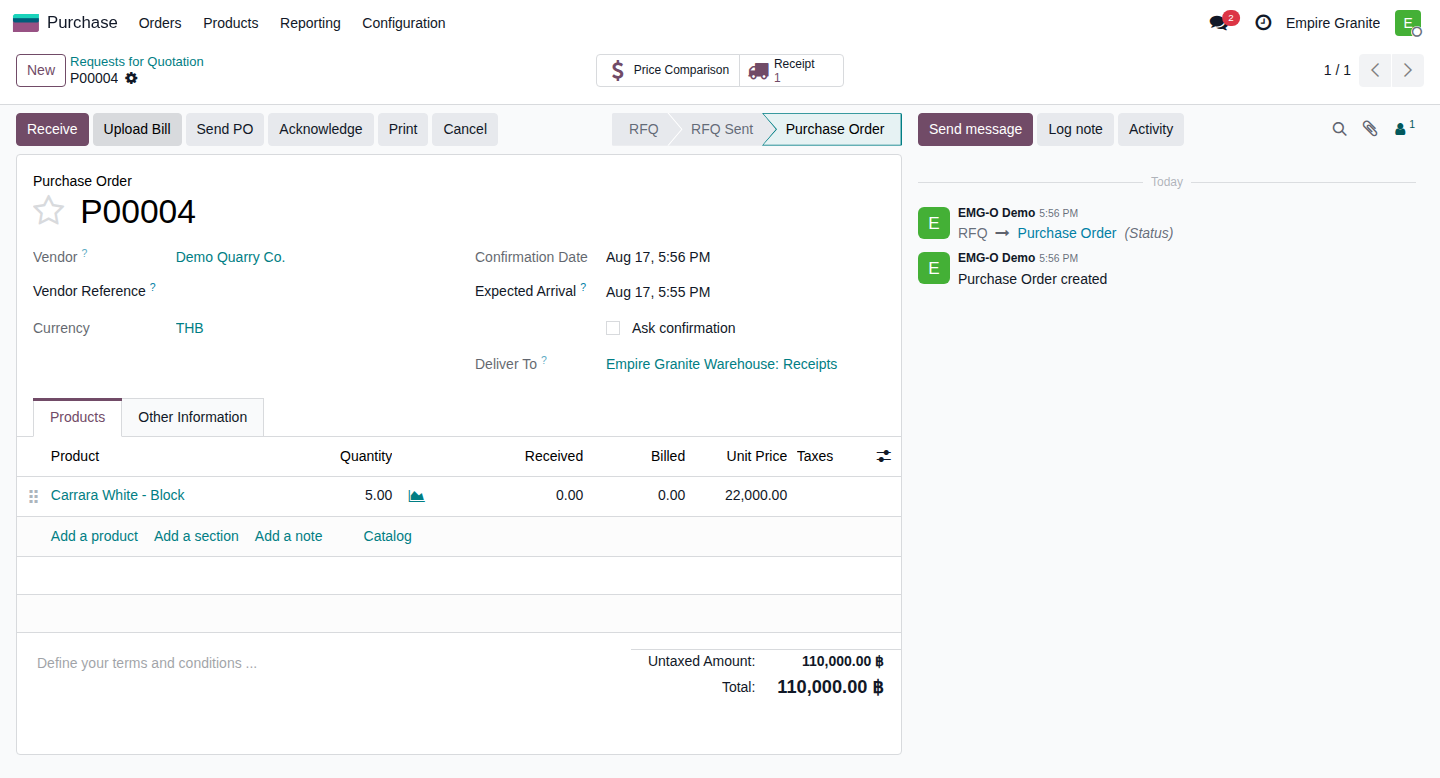
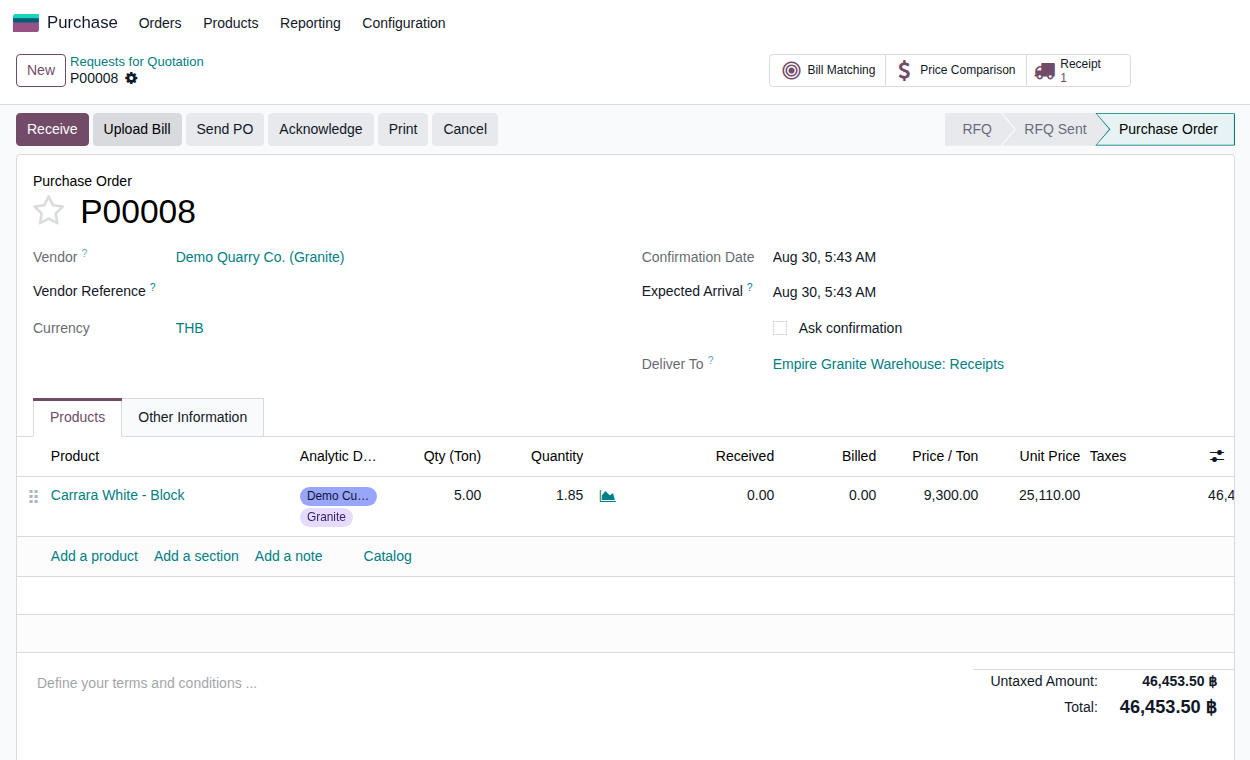
Add Archived page + Pin feature to library; fix stale docs post-ADR-040
- New archived.html: same category taxonomy as library.html, each entry
  shows version/date/reason it's outdated + link to the superseding doc.
  Nav link added to all pages.
- Version+date badge convention (.card-version) established for future
  doc creates/updates (not applied retroactively).
- Pin support: .pinned card badge on library.html + "เอกสารปักหมุด"
  section on index.html (editorial marker, no backend). Pinned D5
  (stone-cost-ton-purchase-calc.html) per request.
- Audit found 3 docs stale vs. the built ADR-040/041 (Ton-based PO
  purchasing/stock): moved block-uom-ton-cbm-proposal.html (superseded
  pending proposal) to archived.html; fixed qa/test-cases-day-in-life.html
  TC-D1-03 (source data + regenerated HTML/xlsx) and e2e-supply-intake.html
  (re-shot 3 screenshots live on mbx-ee-dev via Playwright — PO P00008,
  Block BLK-26-0006 — text/captions updated to match).

diff --git a/presentations/e2e-supply-intake.html b/presentations/e2e-supply-intake.html
@@ -143,12 +143,12 @@
       <div class="col-left">
         <img class="flow-thumb" src="assets/supply-flow-step1.png">
         <ul class="plain-list" style="margin-top:14px;">
-          <li><b>ข้อมูลนำเข้า:</b> ความต้องการซื้อหิน — ระบุวัสดุและปริมาณที่ต้องการ (ลูกบาศก์เมตร)</li>
-          <li><b>กระบวนการ:</b> เปิดใบสั่งซื้อกับซัพพลายเออร์ ระบุวัสดุและจำนวน แล้วยืนยันใบสั่งซื้อ</li>
+          <li><b>ข้อมูลนำเข้า:</b> ความต้องการซื้อหิน — ระบุวัสดุและปริมาณที่ต้องการ (<b>ตัน — ตามน้ำหนักจริงหน้างาน</b>)</li>
+          <li><b>กระบวนการ:</b> เปิดใบสั่งซื้อกับซัพพลายเออร์ ระบุวัสดุและจำนวนเป็นตัน ระบบแปลงเป็นคิว (CBM) ให้อัตโนมัติตาม Density ของวัสดุ แล้วยืนยันใบสั่งซื้อ</li>
         </ul>
       </div>
       <div class="col-right">
-        <div class="shot-wrap"><img class="shot" src="assets/supply-shot-po-confirmed.png"><div class="shot-cap">ผลลัพธ์: ใบสั่งซื้อ P00004 — Demo Quarry Co., Carrara White ปริมาณ 5.00 ลบ.ม. ยืนยันเรียบร้อย พร้อมส่งต่อฝ่ายคลัง</div></div>
+        <div class="shot-wrap"><img class="shot" src="assets/supply-shot-po-confirmed.png"><div class="shot-cap">ผลลัพธ์: ใบสั่งซื้อ P00008 — Demo Quarry Co., Carrara White กรอก 5.00 ตัน ระบบแปลงเป็น 1.85 ลบ.ม. ให้อัตโนมัติ ยืนยันเรียบร้อย พร้อมส่งต่อฝ่ายคลัง</div></div>
       </div>
     </div>
   </section>
@@ -162,11 +162,11 @@
         <img class="flow-thumb" src="assets/supply-flow-step3.png">
         <ul class="plain-list" style="margin-top:14px;">
           <li><b>ข้อมูลนำเข้า:</b> ใบสั่งซื้อที่ยืนยันแล้วจากฝ่ายจัดซื้อ</li>
-          <li><b>กระบวนการ:</b> สร้างข้อมูลก้อนหินใหม่ในระบบ โดยเลือกใบสั่งซื้อที่เกี่ยวข้อง ระบบดึงข้อมูลซัพพลายเออร์และปริมาณให้อัตโนมัติทันที ลดการกรอกข้อมูลซ้ำและความผิดพลาด</li>
+          <li><b>กระบวนการ:</b> สร้างข้อมูลก้อนหินใหม่ในระบบ โดยเลือกใบสั่งซื้อที่เกี่ยวข้อง ระบบดึงข้อมูลซัพพลายเออร์และปริมาณให้อัตโนมัติทันที (ทั้งคิวและตัน — ตันมาจากที่กรอกไว้ตอนสั่งซื้อโดยตรง) ลดการกรอกข้อมูลซ้ำและความผิดพลาด</li>
         </ul>
       </div>
       <div class="col-right">
-        <div class="shot-wrap"><img class="shot" src="assets/supply-shot-block-autofill.png"><div class="shot-cap">ผลลัพธ์: เลือกใบสั่งซื้อ P00004 แล้วระบบเติมซัพพลายเออร์ "Demo Quarry Co." และปริมาณ 5.00 ลบ.ม. ให้อัตโนมัติ</div></div>
+        <div class="shot-wrap"><img class="shot" src="assets/supply-shot-block-autofill.png"><div class="shot-cap">ผลลัพธ์: เลือกใบสั่งซื้อ P00008 แล้วระบบเติมซัพพลายเออร์ "Demo Quarry Co. (Granite)" Total CBM=1.85 และ Weight (Ton)=5.00 ให้อัตโนมัติจากใบสั่งซื้อโดยตรง</div></div>
       </div>
     </div>
   </section>
@@ -180,11 +180,11 @@
         <img class="flow-thumb" src="assets/supply-flow-step4.png">
         <ul class="plain-list" style="margin-top:14px;">
           <li><b>ข้อมูลนำเข้า:</b> รายละเอียดก้อนหิน — คุณภาพ และคลังที่จะรับเข้า</li>
-          <li><b>กระบวนการ:</b> เมื่อบันทึกข้อมูล ระบบรับก้อนหินเข้าสต็อกให้อัตโนมัติทันที ไม่ต้องดำเนินการรับสินค้าซ้ำอีกขั้นตอน — <b>น้ำหนัก (ตัน) คำนวณให้อัตโนมัติด้วย</b> จากปริมาตรที่กรอก ไม่ต้องคำนวณเอง</li>
+          <li><b>กระบวนการ:</b> เมื่อบันทึกข้อมูล ระบบรับก้อนหินเข้าสต็อกให้อัตโนมัติทันที ไม่ต้องดำเนินการรับสินค้าซ้ำอีกขั้นตอน — <b>น้ำหนัก (ตัน) มาจากที่กรอกไว้ตอนสั่งซื้อโดยตรง</b> ไม่ต้องคำนวณหรือกรอกซ้ำที่ขั้นตอนนี้</li>
         </ul>
       </div>
       <div class="col-right">
-        <div class="shot-wrap"><img class="shot" src="assets/supply-shot-block-saved.png"><div class="shot-cap">ผลลัพธ์: BLK-26-0005 บันทึกสำเร็จ ครบทุกข้อมูล หิน 5.00 ลบ.ม. (13.75 ตัน คำนวณอัตโนมัติ) เข้าสต็อกจริงทันที</div></div>
+        <div class="shot-wrap"><img class="shot" src="assets/supply-shot-block-saved.png"><div class="shot-cap">ผลลัพธ์: BLK-26-0006 บันทึกสำเร็จ ครบทุกข้อมูล หิน 1.85 ลบ.ม. (5.00 ตัน จากใบสั่งซื้อ) เข้าสต็อกจริงทันที</div></div>
       </div>
     </div>
   </section>
@@ -246,10 +246,10 @@
       </div>
       <div class="status-card">
         <div class="slabel">ผลลัพธ์ที่ได้</div>
-        <div class="stext">สต็อกหิน 5.00 ลบ.ม. พร้อมขายได้ทันทีทั้ง 5 รูปแบบการขาย ตั้งแต่ก้อนเดียวจนถึงแผ่นสำเร็จรูป ด้วยข้อมูลที่ครบถ้วนถูกต้องทุกขั้นตอน</div>
+        <div class="stext">สต็อกหิน 1.85 ลบ.ม. (5.00 ตัน) พร้อมขายได้ทันทีทั้ง 5 รูปแบบการขาย ตั้งแต่ก้อนเดียวจนถึงแผ่นสำเร็จรูป ด้วยข้อมูลที่ครบถ้วนถูกต้องทุกขั้นตอน</div>
       </div>
     </div>
-    <div style="margin-top:16px;font-size:14px;color:#B9C2C8;">เนื้อหาและภาพหน้าจอทั้งหมดจากการเดินระบบจริง ไม่ใช่ภาพจำลอง — ทดสอบจริงเมื่อวันที่ 17 สิงหาคม 2026 (ใบสั่งซื้อ P00004 → รหัสก้อน BLK-26-0005) ตรวจทานล่าสุด 21 สิงหาคม 2026</div>
+    <div style="margin-top:16px;font-size:14px;color:#B9C2C8;">เนื้อหาและภาพหน้าจอทั้งหมดจากการเดินระบบจริง ไม่ใช่ภาพจำลอง — ทดสอบจริงเมื่อวันที่ 17 สิงหาคม 2026 (ใบสั่งซื้อ P00004 → รหัสก้อน BLK-26-0005) ถ่ายภาพหน้าจอใหม่ 30 สิงหาคม 2026 ให้ตรงกับ ADR-040 (ใบสั่งซื้อ P00008 → รหัสก้อน BLK-26-0006)</div>
   </section>
 
 </div></div>

diff --git a/library.html b/library.html
@@ -69,12 +69,15 @@
   .subgroup.team .subgroup-title{color:#6B6E70;}
 
   .card{
-    display:flex;align-items:center;gap:18px;
+    display:flex;align-items:center;gap:18px;position:relative;
     background:var(--card);border:1px solid var(--border);border-radius:14px;
     padding:20px 22px;margin-bottom:14px;text-decoration:none;color:inherit;
     transition:box-shadow .15s ease, transform .15s ease;
   }
   .card:hover{box-shadow:0 8px 24px rgba(0,0,0,.08);transform:translateY(-1px);}
+  .card.pinned{border-color:var(--copper);}
+  .pin-badge{position:absolute;top:-9px;right:16px;background:var(--copper);color:#fff;font-size:10.5px;font-weight:700;letter-spacing:.3px;padding:3px 9px;border-radius:99px;text-transform:uppercase;}
+  .card-version{font-size:11.5px;color:var(--copper-dark);font-weight:700;}
   .icon{
     flex-shrink:0;width:44px;height:44px;border-radius:50%;background:var(--copper);
     color:#fff;display:flex;align-items:center;justify-content:center;
@@ -109,6 +112,7 @@
     <a href="index.html" class="tn-link">หน้าแรก</a>
     <a href="decisions.html" class="tn-link">บันทึกการตัดสินใจ</a>
     <a href="library.html" class="tn-link active">คลังเอกสารทั้งหมด</a>
+    <a href="archived.html" class="tn-link">เอกสารเก่า (Archived)</a>
   </div>
 </div>
 
@@ -160,7 +164,6 @@
         <summary>Ensure Supply</summary>
         <ul class="tree-docs">
           <li class="tree-doc"><a href="presentations/inventory-overview.html"><span class="tree-doc-tag">1</span>การจัดการสต็อก (Inventory)</a></li>
-          <li class="tree-doc"><a href="presentations/block-uom-ton-cbm-proposal.html"><span class="tree-doc-tag">2</span>หน่วยวัดก้อนหิน: ตัน หรือ คิว</a></li>
         </ul>
       </details>
 
@@ -252,7 +255,7 @@
   <header>
     <div class="eyebrow">Empire Stone × Empire Granite</div>
     <h1>คลังเอกสารและคู่มือทั้งหมด</h1>
-    <div class="sub">รวมคู่มือการใช้งานและสไลด์อบรมทั้งหมดไว้ที่เดียว จัดหมวดตามขั้นตอนงาน — สำหรับเจาะลึกเฉพาะเรื่อง ถ้าอยากรู้ว่าตอนนี้ควรดูอะไรก่อน ดูที่ <a href="index.html" style="color:var(--copper-dark);font-weight:700;">หน้าแรก</a></div>
+    <div class="sub">รวมคู่มือการใช้งานและสไลด์อบรมทั้งหมดไว้ที่เดียว จัดหมวดตามขั้นตอนงาน — สำหรับเจาะลึกเฉพาะเรื่อง ถ้าอยากรู้ว่าตอนนี้ควรดูอะไรก่อน ดูที่ <a href="index.html" style="color:var(--copper-dark);font-weight:700;">หน้าแรก</a> · เอกสารที่ถูกแทนที่แล้วย้ายไปไว้ที่ <a href="archived.html" style="color:var(--copper-dark);font-weight:700;">เอกสารเก่า (Archived) →</a></div>
   </header>
 
   <div class="category" id="project-overview">
@@ -422,15 +425,6 @@
       </div>
       <div class="arrow">→</div>
     </a>
-    <a class="card" href="presentations/block-uom-ton-cbm-proposal.html">
-      <div class="icon">2</div>
-      <div>
-        <div class="card-title">หน่วยวัดก้อนหิน: ตัน หรือ คิว — ข้อเสนอแนวทาง</div>
-        <div class="card-desc">สถานการณ์ปัจจุบัน + ตัวอย่างตัวเลขทำไมต้องแม่นยำ + ข้อเสนอให้กรอกได้ทั้งตันและคิว แปลงอัตโนมัติ ต้นทุนยังยึดคิวเป็นหลัก พร้อม 2 คำถามที่ขอความชัดเจนเพิ่มก่อนเริ่มงาน (7 สไลด์)</div>
-        <div class="card-meta"><span class="card-date">24 ส.ค. 2026</span><span class="status-badge design">รอลูกค้ายืนยัน</span></div>
-      </div>
-      <div class="arrow">→</div>
-    </a>
   </div>
 
   <div class="category" id="management-accounting">
@@ -551,7 +545,8 @@
       </div>
       <div class="arrow">→</div>
     </a>
-    <a class="card" href="presentations/workflow-design/stone-cost-ton-purchase-calc.html">
+    <a class="card pinned" href="presentations/workflow-design/stone-cost-ton-purchase-calc.html">
+      <span class="pin-badge">📌 ปักหมุด</span>
       <div class="icon">D5</div>
       <div>
         <div class="card-title">ซื้อหินเป็นตัน → คำนวณและกระจาย Cost อย่างไร</div>
@@ -581,7 +576,7 @@
       <div>
         <div class="card-title">Test Cases: Day-in-the-Life (Order-to-Cash)</div>
         <div class="card-desc">39 test case เดินตามลำดับ flow จริงทุกจุดในเอกสาร Day-in-the-Life ครบทุกสไลด์ในเธรดเดียว (Material Setup → Analytic → BOQ Quotation → มัดจำ+Project → ต้นทุนจริงจาก PO → Cut Order → ค่าใช้จ่ายหน้างาน → ติดตั้ง+WHT → ปิดยอด → Chart of Analytic Accounts) รวมจุดที่เคยมี Test Case ในหมวดอื่นแล้วก็ทดสอบซ้ำที่นี่เพื่อจับ regression จากโค้ดที่เปลี่ยนล่าสุด (ระบุที่มาไว้ในหมายเหตุแต่ละเคส) — ดาวน์โหลดเป็น Excel ได้ในหน้าเดียวกัน</div>
-        <div class="card-meta"><span class="card-date">27 ส.ค. 2026</span><span class="status-badge confirmed">ใหม่</span></div>
+        <div class="card-meta"><span class="card-version">v1.1</span><span class="card-date">30 ส.ค. 2026</span><span class="status-badge confirmed">แก้ TC-D1-03 ให้ตรงกับ ADR-040</span></div>
       </div>
       <div class="arrow">→</div>
     </a>
@@ -657,8 +652,8 @@
         <div class="icon">S1</div>
         <div>
           <div class="card-title">E2E — รับหินเข้าคลัง (Ensure Supply)</div>
-          <div class="card-desc">เปิดใบสั่งซื้อก้อนหิน → ยืนยัน → สร้างข้อมูลก้อนหินผูกกับใบสั่งซื้อ → กรอกรายละเอียด → บันทึกรับเข้าสต็อกอัตโนมัติ → เพิ่มแผ่นหิน → พร้อมขายได้ทั้ง 5 รูปแบบ — เดินระบบจริง ไม่ใช่ภาพจำลอง</div>
-          <div class="card-meta"><span class="card-date">21 ส.ค. 2026</span><span class="status-badge confirmed">ปรับปรุงเนื้อหาแล้ว</span></div>
+          <div class="card-desc">เปิดใบสั่งซื้อก้อนหิน (กรอกเป็นตัน) → ยืนยัน → สร้างข้อมูลก้อนหินผูกกับใบสั่งซื้อ → กรอกรายละเอียด → บันทึกรับเข้าสต็อกอัตโนมัติ → เพิ่มแผ่นหิน → พร้อมขายได้ทั้ง 5 รูปแบบ — เดินระบบจริง ไม่ใช่ภาพจำลอง</div>
+          <div class="card-meta"><span class="card-version">v1.1</span><span class="card-date">30 ส.ค. 2026</span><span class="status-badge confirmed">อัปเดต — ถ่าย screenshot ใหม่ตาม ADR-040</span></div>
         </div>
         <div class="arrow">→</div>
       </a>

diff --git a/qa/test-cases-day-in-life.html b/qa/test-cases-day-in-life.html
@@ -184,11 +184,11 @@
         </tr>
         <tr>
           <td class="col-id"><span class="tc-id">TC-D1-03</span></td>
-          <td class="col-scenario">สร้าง PO จริง + ยืนยัน แล้วสร้าง Block จาก PO นั้น — Weight (Ton) เติมให้อัตโนมัติจาก Density<div class="note">ฟีเจอร์ใหม่ 2026-08-25 ไม่เคยมี Test Case มาก่อน — ⚠ เพิ่ม field ที่ขาดไปจากเอกสารเดิม: Total CBM/Weight(Ton)/Purchase Order Line/Thickness(M) ทั้งหมด invisible บนฟอร์ม Block ถ้า Material ไม่มี Block Product (ดู stone_bundle_views.xml, group invisible="not material_has_block_product") และ 3 ใน 4 ฟิลด์นั้นเป็น required ทันทีที่ Material มี Block Product — ต้องมี PO จริง (confirm แล้ว) อยู่ก่อนถึงจะสร้าง Block ได้เลย ไม่ใช่กรอก Total CBM ลอยๆ ตามที่เอกสารเดิมเขียนไว้ เพิ่มขั้นตอนสร้าง PO เองในเคสนี้เลย (แทนที่จะสมมติไว้ใน precondition เฉยๆ) เพราะถ้าไม่มี PO จริงจะทดสอบขั้นต่อไปไม่ได้เลย</div></td>
+          <td class="col-scenario">สร้าง PO จริง + ยืนยัน แล้วสร้าง Block จาก PO นั้น — Weight (Ton) เติมให้อัตโนมัติจาก Density<div class="note">ฟีเจอร์ใหม่ 2026-08-25 ไม่เคยมี Test Case มาก่อน — ⚠ เพิ่ม field ที่ขาดไปจากเอกสารเดิม: Total CBM/Weight(Ton)/Purchase Order Line/Thickness(M) ทั้งหมด invisible บนฟอร์ม Block ถ้า Material ไม่มี Block Product (ดู stone_bundle_views.xml, group invisible="not material_has_block_product") และ 3 ใน 4 ฟิลด์นั้นเป็น required ทันทีที่ Material มี Block Product — ต้องมี PO จริง (confirm แล้ว) อยู่ก่อนถึงจะสร้าง Block ได้เลย ไม่ใช่กรอก Total CBM ลอยๆ ตามที่เอกสารเดิมเขียนไว้ เพิ่มขั้นตอนสร้าง PO เองในเคสนี้เลย (แทนที่จะสมมติไว้ใน precondition เฉยๆ) เพราะถ้าไม่มี PO จริงจะทดสอบขั้นต่อไปไม่ได้เลย | แก้ 30 ส.ค. 2026 ให้ตรงกับ ADR-040 — PO กรอกเป็นตัน (Ton) เป็นหลัก ระบบแปลงเป็น CBM ให้อัตโนมัติ (เดิมเอกสารนี้เขียนให้กรอก Quantity เป็น CBM ตรงๆ ซึ่งสลับทิศทางกับที่ build จริง)</div></td>
           <td class="col-pre">Material "Test Marble 01" มี Block Product แล้ว (จาก TC-D1-01) และตั้ง Density=2.75 ไว้แล้ว</td>
-          <td class="col-steps"><ol><li>เปิดเมนู Purchase &gt; Orders &gt; New</li><li>เลือก Vendor = "Demo Quarry Co."</li><li>กด "Add a line" เพิ่มบรรทัด: Product="Test Marble 01 - Block", Quantity=2.0, Unit Price=25,000 (Subtotal เติมอัตโนมัติ=50,000)</li><li>กด "Confirm Order" (PO เปลี่ยนสถานะเป็น Purchase)</li><li>เปิดเมนู Stone Slab &gt; Blocks &gt; New</li><li>กรอก Material/Quality/Warehouse</li><li>เลือก Purchase Order Line = บรรทัดของ PO ที่เพิ่งยืนยัน — สังเกต Supplier + Total CBM เติมให้อัตโนมัติทันที</li><li>กรอก Thickness (M)</li><li>ดูช่อง Weight (Ton) โดยไม่ต้องพิมพ์เอง แล้วกด Save</li></ol></td>
-          <td class="col-sample">Vendor = "Demo Quarry Co."<br>PO Line: Product="Test Marble 01 - Block", Quantity=2.0, Unit Price=25,000, Subtotal=50,000 (เติมอัตโนมัติ)<br>—<br>Material = "Test Marble 01"<br>Quality = "First" (ค่าเริ่มต้น)<br>Warehouse = "Empire Granite Warehouse (EG01)"<br>Purchase Order Line = บรรทัด PO ที่เพิ่งยืนยัน<br>Supplier = เติมอัตโนมัติ = "Demo Quarry Co."<br>Total CBM = เติมอัตโนมัติ = 2.0<br>Thickness (M) = 0.04</td>
-          <td class="col-expected">PO confirm สำเร็จ (state=Purchase) — ทันทีที่เลือก Purchase Order Line บนฟอร์ม Block: Supplier + Total CBM เติมให้อัตโนมัติ (2.0) แล้ว Weight (Ton) เติมต่อให้อัตโนมัติ = 5.5 (2.0 × 2.75) โดยไม่ต้องพิมพ์เอง บันทึกสำเร็จ (PO+Block นี้ใช้ fixture ต่อใน TC-D1-04 ด้วย)</td>
+          <td class="col-steps"><ol><li>เปิดเมนู Purchase &gt; Orders &gt; New</li><li>เลือก Vendor = "Demo Quarry Co."</li><li>กด "Add a line" เพิ่มบรรทัด: Product="Test Marble 01 - Block" แล้วกรอก <b>Qty (Ton)=5.5</b> และ <b>Price / Ton=9,090.91</b> — สังเกต Quantity (CBM)/Unit Price เติมให้อัตโนมัติทันที (2.0 / 25,000, Subtotal เติมอัตโนมัติ=50,000)</li><li>กด "Confirm Order" (PO เปลี่ยนสถานะเป็น Purchase)</li><li>เปิดเมนู Stone Slab &gt; Blocks &gt; New</li><li>กรอก Material/Quality/Warehouse</li><li>เลือก Purchase Order Line = บรรทัดของ PO ที่เพิ่งยืนยัน — สังเกต Supplier + Total CBM เติมให้อัตโนมัติทันที</li><li>กรอก Thickness (M)</li><li>ดูช่อง Weight (Ton) โดยไม่ต้องพิมพ์เอง แล้วกด Save</li></ol></td>
+          <td class="col-sample">Vendor = "Demo Quarry Co."<br>PO Line: Product="Test Marble 01 - Block", Qty (Ton)=5.5, Price/Ton=9,090.91 (กรอก) → Quantity (CBM)=2.0, Unit Price=25,000, Subtotal=50,000 (เติมอัตโนมัติ)<br>—<br>Material = "Test Marble 01"<br>Quality = "First" (ค่าเริ่มต้น)<br>Warehouse = "Empire Granite Warehouse (EG01)"<br>Purchase Order Line = บรรทัด PO ที่เพิ่งยืนยัน<br>Supplier = เติมอัตโนมัติ = "Demo Quarry Co."<br>Total CBM = เติมอัตโนมัติ = 2.0<br>Thickness (M) = 0.04</td>
+          <td class="col-expected">PO confirm สำเร็จ (state=Purchase) — กรอก Qty (Ton)/Price per Ton แล้ว Quantity (CBM)/Unit Price/Subtotal เติมให้อัตโนมัติ (2.0 / 25,000 / 50,000) — ทันทีที่เลือก Purchase Order Line บนฟอร์ม Block: Supplier + Total CBM เติมให้อัตโนมัติ (2.0) แล้ว Weight (Ton) เติมต่อให้อัตโนมัติ = 5.5 (2.0 × 2.75) โดยไม่ต้องพิมพ์เอง บันทึกสำเร็จ (PO+Block นี้ใช้ fixture ต่อใน TC-D1-04 ด้วย)</td>
           <td class="col-prio"><span class="prio-badge prio-med">Medium</span></td>
         </tr>
         <tr>

diff --git a/archived.html b/archived.html
@@ -1,0 +1,109 @@
+<!doctype html>
+<html lang="th">
+<head>
+<meta charset="UTF-8">
+<meta name="viewport" content="width=device-width, initial-scale=1">
+<title>EMG-O Project Portal — เอกสารเก่า (Archived)</title>
+<style>
+  :root{
+    --copper:#B8763E;
+    --copper-dark:#8F5A2C;
+    --charcoal:#2B2E31;
+    --text:#3A3D40;
+    --bg:#F3F1EE;
+    --card:#FFFFFF;
+    --border:#E4DFD8;
+    --muted:#8A8D8F;
+  }
+  *{box-sizing:border-box;}
+  html,body{margin:0;padding:0;background:var(--bg);font-family:Calibri,Arial,sans-serif;color:var(--text);}
+  a{color:inherit;}
+
+  .topnav{background:var(--charcoal);padding:0 24px;display:flex;align-items:center;justify-content:space-between;flex-wrap:wrap;gap:12px;}
+  .topnav-brand{color:#fff;font-family:Cambria,serif;font-weight:700;font-size:17px;padding:16px 0;}
+  .topnav-brand span{color:#9AA0A4;font-family:Calibri,Arial,sans-serif;font-weight:400;font-size:13px;margin-left:8px;}
+  .topnav-links{display:flex;gap:4px;}
+  .tn-link{padding:16px 16px;font-size:14px;color:#C9CDCF;text-decoration:none;border-bottom:3px solid transparent;font-weight:600;}
+  .tn-link:hover{color:#fff;}
+  .tn-link.active{color:#fff;border-bottom-color:var(--copper);}
+
+  .wrap{max-width:880px;margin:0 auto;padding:44px 24px 100px;}
+  header{margin-bottom:44px;}
+  .eyebrow{font-size:14px;letter-spacing:2px;text-transform:uppercase;color:var(--muted);font-weight:700;margin-bottom:10px;}
+  h1{font-size:32px;margin:0 0 10px 0;color:var(--charcoal);font-weight:700;font-family:Cambria,serif;}
+  .sub{font-size:15.5px;color:#6B6E70;line-height:1.6;max-width:640px;}
+
+  .category{margin-bottom:48px;}
+  .category-header{display:flex;align-items:baseline;gap:14px;flex-wrap:wrap;margin-bottom:20px;padding-bottom:12px;border-bottom:2px solid var(--border);}
+  .category-title{font-size:20px;font-weight:700;font-family:Cambria,serif;color:var(--muted);}
+  .category-sub{font-size:13px;color:#9A9D9F;}
+
+  .card{
+    display:flex;align-items:flex-start;gap:18px;
+    background:var(--card);border:1px solid var(--border);border-radius:14px;
+    padding:20px 22px;margin-bottom:14px;
+  }
+  .icon{
+    flex-shrink:0;width:44px;height:44px;border-radius:50%;background:var(--muted);
+    color:#fff;display:flex;align-items:center;justify-content:center;
+    font-size:16px;font-weight:700;font-family:Cambria,serif;margin-top:2px;
+  }
+  .card-body{flex:1;min-width:0;}
+  .card-title{display:inline-block;font-size:16.5px;font-weight:700;color:var(--charcoal);margin-bottom:3px;text-decoration:line-through;text-decoration-color:var(--border);text-decoration-thickness:2px;}
+  .card-title:hover{color:var(--copper-dark);}
+  .card-desc{font-size:13.5px;color:#9A9D9F;line-height:1.5;}
+  .card-meta{display:flex;gap:10px;align-items:center;margin-top:8px;flex-wrap:wrap;}
+  .card-version{font-size:11.5px;color:#787B7D;font-weight:700;background:#EDEAE5;padding:2px 8px;border-radius:99px;}
+  .card-date{font-size:11.5px;color:#9A9D9F;}
+
+  .archive-note{margin-top:12px;padding:12px 14px;background:#FBF2E2;border-left:3px solid var(--copper);border-radius:0 8px 8px 0;font-size:13px;color:#6B5A3D;line-height:1.55;}
+  .archive-note b{color:var(--copper-dark);}
+  .archive-note a{color:var(--copper-dark);font-weight:700;text-decoration:none;}
+  .archive-note a:hover{text-decoration:underline;}
+  .archive-note .archived-on{display:block;margin-top:6px;font-size:11.5px;color:#9A8A6E;}
+
+  footer{margin-top:56px;font-size:13px;color:#9A9D9F;padding-top:20px;border-top:1px solid var(--border);}
+</style>
+</head>
+<body>
+
+<div class="topnav">
+  <div class="topnav-brand">EMG-O <span>Project Portal</span></div>
+  <div class="topnav-links">
+    <a href="index.html" class="tn-link">หน้าแรก</a>
+    <a href="decisions.html" class="tn-link">บันทึกการตัดสินใจ</a>
+    <a href="library.html" class="tn-link">คลังเอกสารทั้งหมด</a>
+    <a href="archived.html" class="tn-link active">เอกสารเก่า (Archived)</a>
+  </div>
+</div>
+
+<div class="wrap">
+  <header>
+    <div class="eyebrow">Empire Stone × Empire Granite</div>
+    <h1>เอกสารเก่า (Archived)</h1>
+    <div class="sub">เอกสารที่เคยใช้งานอยู่ในคลังหลัก แต่เนื้อหาไม่ทันสมัยแล้วเพราะระบบถูกปรับไปหลังจากเอกสารนี้ถูกเขียน — เก็บไว้อ้างอิงประวัติเท่านั้น ห้ามใช้เป็นคู่มืออ้างอิงการทำงานปัจจุบัน จัดหมวดหมู่แบบเดียวกับ <a href="library.html" style="color:var(--copper-dark);font-weight:700;">คลังเอกสารทั้งหมด</a></div>
+  </header>
+
+  <div class="category" id="ensure-supply">
+    <div class="category-header">
+      <div class="category-title">Ensure Supply</div>
+      <div class="category-sub">จัดหาและบริหารสต็อกให้พร้อมส่งมอบ</div>
+    </div>
+    <div class="card">
+      <div class="icon">2</div>
+      <div class="card-body">
+        <a class="card-title" href="presentations/block-uom-ton-cbm-proposal.html">หน่วยวัดก้อนหิน: ตัน หรือ คิว — ข้อเสนอแนวทาง</a>
+        <div class="card-desc">ข้อเสนอให้กรอกได้ทั้งตันและคิว แปลงอัตโนมัติ ต้นทุนยังยึดคิวเป็นหลัก พร้อม 2 คำถามที่ขอความชัดเจนเพิ่มก่อนเริ่มงาน — เอกสารนี้เขียนขึ้นตอนยังรอลูกค้ายืนยันแนวทาง (7 สไลด์)</div>
+        <div class="card-meta"><span class="card-version">v1.0</span><span class="card-date">24 ส.ค. 2026</span></div>
+        <div class="archive-note">
+          <b>ทำไมไม่ทันสมัยแล้ว:</b> เอกสารนี้เป็นข้อเสนอที่ยัง "รอลูกค้ายืนยัน" แต่ตอนนี้ฟีเจอร์ถูกออกแบบและ build จริงแล้ว — ซื้อเป็นตันตรงที่ PO (ADR-040) และเช็คสต็อกเหลือเป็นตันได้เลย (ADR-041) ทดสอบผ่านเบราว์เซอร์จริงครบทุกจุดแล้ว ดูฉบับที่ใช้งานจริงได้ที่ <a href="presentations/workflow-design/block-density-weight-explainer.html">D4: CBM → ตัน — ความหนาแน่นตามประเภทหิน →</a>
+          <span class="archived-on">ย้ายเข้า Archived: 30 ส.ค. 2026</span>
+        </div>
+      </div>
+    </div>
+  </div>
+
+  <footer>Empire Stone Internal System — จัดทำโดยทีมงาน · <a href="library.html">กลับไปคลังเอกสารทั้งหมด</a></footer>
+</div>
+</body>
+</html>

diff --git a/index.html b/index.html
@@ -90,6 +90,7 @@
     <a href="index.html" class="tn-link active">หน้าแรก</a>
     <a href="decisions.html" class="tn-link">บันทึกการตัดสินใจ</a>
     <a href="library.html" class="tn-link">คลังเอกสารทั้งหมด</a>
+    <a href="archived.html" class="tn-link">เอกสารเก่า (Archived)</a>
   </div>
 </div>
 
@@ -136,6 +137,24 @@
         <div class="tl-date">ถัดไป</div>
       </div>
     </div>
+  </div>
+
+  <div class="section">
+    <div class="section-head">
+      <div class="section-title">📌 เอกสารปักหมุด</div>
+      <a class="section-link" href="library.html">ดูคลังเอกสารทั้งหมด →</a>
+    </div>
+    <a class="cat-card" href="presentations/workflow-design/stone-cost-ton-purchase-calc.html">
+      <div class="cat-head">
+        <div class="cat-icon">D5</div>
+        <div>
+          <div class="cat-title">ซื้อหินเป็นตัน → คำนวณและกระจาย Cost อย่างไร</div>
+          <div class="cat-count">Custom Workflow Design · 28 ส.ค. 2026</div>
+        </div>
+        <div class="cat-arrow">→</div>
+      </div>
+      <div class="cat-desc">ตอบคำถามลูกค้าว่าระบบคำนวณ/กระจายต้นทุนหินยังไง และตรวจสอบย้อนกลับได้จากตรงไหน — เดินเรื่องด้วยข้อมูลจริง (PO P00014 → Block BLK-26-0029)</div>
+    </a>
   </div>
 
   <div class="section">

diff --git a/decisions.html b/decisions.html
@@ -70,6 +70,7 @@
     <a href="index.html" class="tn-link">หน้าแรก</a>
     <a href="decisions.html" class="tn-link active">บันทึกการตัดสินใจ</a>
     <a href="library.html" class="tn-link">คลังเอกสารทั้งหมด</a>
+    <a href="archived.html" class="tn-link">เอกสารเก่า (Archived)</a>
   </div>
 </div>
 

diff --git a/qa/generator/qa_data_day_in_life.py b/qa/generator/qa_data_day_in_life.py
@@ -61,11 +61,11 @@ CATEGORIES = [
          sample="Pricing Mode: \"Serial (per-slab)\" → \"Lot (aggregate, cheap stone)\"",
          expected="บันทึกไม่ผ่าน ขึ้น error ข้อความเป๊ะๆ: \"Pricing Mode ถูกล็อกแล้ว เพราะ Material นี้มี Block อยู่แล้ว — สลับระหว่าง Serial กับ Lot บน Material ที่มีสต็อกจริงจะทำให้สถานะสต็อกปนกันผิดพลาด\"", prio="High"),
     dict(id="TC-D1-03", scenario="สร้าง PO จริง + ยืนยัน แล้วสร้าง Block จาก PO นั้น — Weight (Ton) เติมให้อัตโนมัติจาก Density",
-         note="ฟีเจอร์ใหม่ 2026-08-25 ไม่เคยมี Test Case มาก่อน — ⚠ เพิ่ม field ที่ขาดไปจากเอกสารเดิม: Total CBM/Weight(Ton)/Purchase Order Line/Thickness(M) ทั้งหมด invisible บนฟอร์ม Block ถ้า Material ไม่มี Block Product (ดู stone_bundle_views.xml, group invisible=\"not material_has_block_product\") และ 3 ใน 4 ฟิลด์นั้นเป็น required ทันทีที่ Material มี Block Product — ต้องมี PO จริง (confirm แล้ว) อยู่ก่อนถึงจะสร้าง Block ได้เลย ไม่ใช่กรอก Total CBM ลอยๆ ตามที่เอกสารเดิมเขียนไว้ เพิ่มขั้นตอนสร้าง PO เองในเคสนี้เลย (แทนที่จะสมมติไว้ใน precondition เฉยๆ) เพราะถ้าไม่มี PO จริงจะทดสอบขั้นต่อไปไม่ได้เลย",
+         note="ฟีเจอร์ใหม่ 2026-08-25 ไม่เคยมี Test Case มาก่อน — ⚠ เพิ่ม field ที่ขาดไปจากเอกสารเดิม: Total CBM/Weight(Ton)/Purchase Order Line/Thickness(M) ทั้งหมด invisible บนฟอร์ม Block ถ้า Material ไม่มี Block Product (ดู stone_bundle_views.xml, group invisible=\"not material_has_block_product\") และ 3 ใน 4 ฟิลด์นั้นเป็น required ทันทีที่ Material มี Block Product — ต้องมี PO จริง (confirm แล้ว) อยู่ก่อนถึงจะสร้าง Block ได้เลย ไม่ใช่กรอก Total CBM ลอยๆ ตามที่เอกสารเดิมเขียนไว้ เพิ่มขั้นตอนสร้าง PO เองในเคสนี้เลย (แทนที่จะสมมติไว้ใน precondition เฉยๆ) เพราะถ้าไม่มี PO จริงจะทดสอบขั้นต่อไปไม่ได้เลย | แก้ 30 ส.ค. 2026 ให้ตรงกับ ADR-040 — PO กรอกเป็นตัน (Ton) เป็นหลัก ระบบแปลงเป็น CBM ให้อัตโนมัติ (เดิมเอกสารนี้เขียนให้กรอก Quantity เป็น CBM ตรงๆ ซึ่งสลับทิศทางกับที่ build จริง)",
          pre="Material \"Test Marble 01\" มี Block Product แล้ว (จาก TC-D1-01) และตั้ง Density=2.75 ไว้แล้ว",
-         steps=["เปิดเมนู Purchase &gt; Orders &gt; New", "เลือก Vendor = \"Demo Quarry Co.\"", "กด \"Add a line\" เพิ่มบรรทัด: Product=\"Test Marble 01 - Block\", Quantity=2.0, Unit Price=25,000 (Subtotal เติมอัตโนมัติ=50,000)", "กด \"Confirm Order\" (PO เปลี่ยนสถานะเป็น Purchase)", "เปิดเมนู Stone Slab &gt; Blocks &gt; New", "กรอก Material/Quality/Warehouse", "เลือก Purchase Order Line = บรรทัดของ PO ที่เพิ่งยืนยัน — สังเกต Supplier + Total CBM เติมให้อัตโนมัติทันที", "กรอก Thickness (M)", "ดูช่อง Weight (Ton) โดยไม่ต้องพิมพ์เอง แล้วกด Save"],
-         sample="Vendor = \"Demo Quarry Co.\"<br>PO Line: Product=\"Test Marble 01 - Block\", Quantity=2.0, Unit Price=25,000, Subtotal=50,000 (เติมอัตโนมัติ)<br>—<br>Material = \"Test Marble 01\"<br>Quality = \"First\" (ค่าเริ่มต้น)<br>Warehouse = \"Empire Granite Warehouse (EG01)\"<br>Purchase Order Line = บรรทัด PO ที่เพิ่งยืนยัน<br>Supplier = เติมอัตโนมัติ = \"Demo Quarry Co.\"<br>Total CBM = เติมอัตโนมัติ = 2.0<br>Thickness (M) = 0.04",
-         expected="PO confirm สำเร็จ (state=Purchase) — ทันทีที่เลือก Purchase Order Line บนฟอร์ม Block: Supplier + Total CBM เติมให้อัตโนมัติ (2.0) แล้ว Weight (Ton) เติมต่อให้อัตโนมัติ = 5.5 (2.0 × 2.75) โดยไม่ต้องพิมพ์เอง บันทึกสำเร็จ (PO+Block นี้ใช้ fixture ต่อใน TC-D1-04 ด้วย)", prio="Medium"),
+         steps=["เปิดเมนู Purchase &gt; Orders &gt; New", "เลือก Vendor = \"Demo Quarry Co.\"", "กด \"Add a line\" เพิ่มบรรทัด: Product=\"Test Marble 01 - Block\" แล้วกรอก <b>Qty (Ton)=5.5</b> และ <b>Price / Ton=9,090.91</b> — สังเกต Quantity (CBM)/Unit Price เติมให้อัตโนมัติทันที (2.0 / 25,000, Subtotal เติมอัตโนมัติ=50,000)", "กด \"Confirm Order\" (PO เปลี่ยนสถานะเป็น Purchase)", "เปิดเมนู Stone Slab &gt; Blocks &gt; New", "กรอก Material/Quality/Warehouse", "เลือก Purchase Order Line = บรรทัดของ PO ที่เพิ่งยืนยัน — สังเกต Supplier + Total CBM เติมให้อัตโนมัติทันที", "กรอก Thickness (M)", "ดูช่อง Weight (Ton) โดยไม่ต้องพิมพ์เอง แล้วกด Save"],
+         sample="Vendor = \"Demo Quarry Co.\"<br>PO Line: Product=\"Test Marble 01 - Block\", Qty (Ton)=5.5, Price/Ton=9,090.91 (กรอก) → Quantity (CBM)=2.0, Unit Price=25,000, Subtotal=50,000 (เติมอัตโนมัติ)<br>—<br>Material = \"Test Marble 01\"<br>Quality = \"First\" (ค่าเริ่มต้น)<br>Warehouse = \"Empire Granite Warehouse (EG01)\"<br>Purchase Order Line = บรรทัด PO ที่เพิ่งยืนยัน<br>Supplier = เติมอัตโนมัติ = \"Demo Quarry Co.\"<br>Total CBM = เติมอัตโนมัติ = 2.0<br>Thickness (M) = 0.04",
+         expected="PO confirm สำเร็จ (state=Purchase) — กรอก Qty (Ton)/Price per Ton แล้ว Quantity (CBM)/Unit Price/Subtotal เติมให้อัตโนมัติ (2.0 / 25,000 / 50,000) — ทันทีที่เลือก Purchase Order Line บนฟอร์ม Block: Supplier + Total CBM เติมให้อัตโนมัติ (2.0) แล้ว Weight (Ton) เติมต่อให้อัตโนมัติ = 5.5 (2.0 × 2.75) โดยไม่ต้องพิมพ์เอง บันทึกสำเร็จ (PO+Block นี้ใช้ fixture ต่อใน TC-D1-04 ด้วย)", prio="Medium"),
     dict(id="TC-D1-03b", scenario="แก้ Weight (Ton) มือหลังระบบเติมให้แล้ว (ค่าจากตาชั่งจริง)",
          note="ฟีเจอร์ใหม่ 2026-08-25 — ตรวจว่าไม่ถูกเขียนทับจนกว่าจะแก้ Total CBM หรือ Material อีกครั้ง",
          pre="Block จาก TC-D1-03 มี Weight (Ton) เติมอัตโนมัติแล้ว = 5.5",
